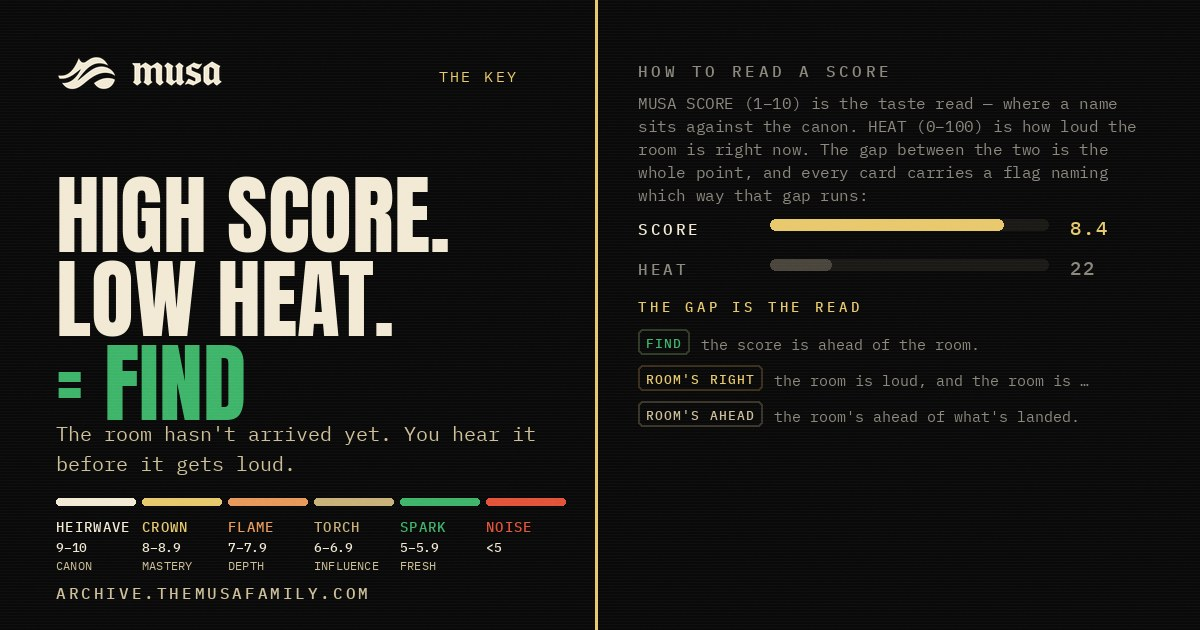
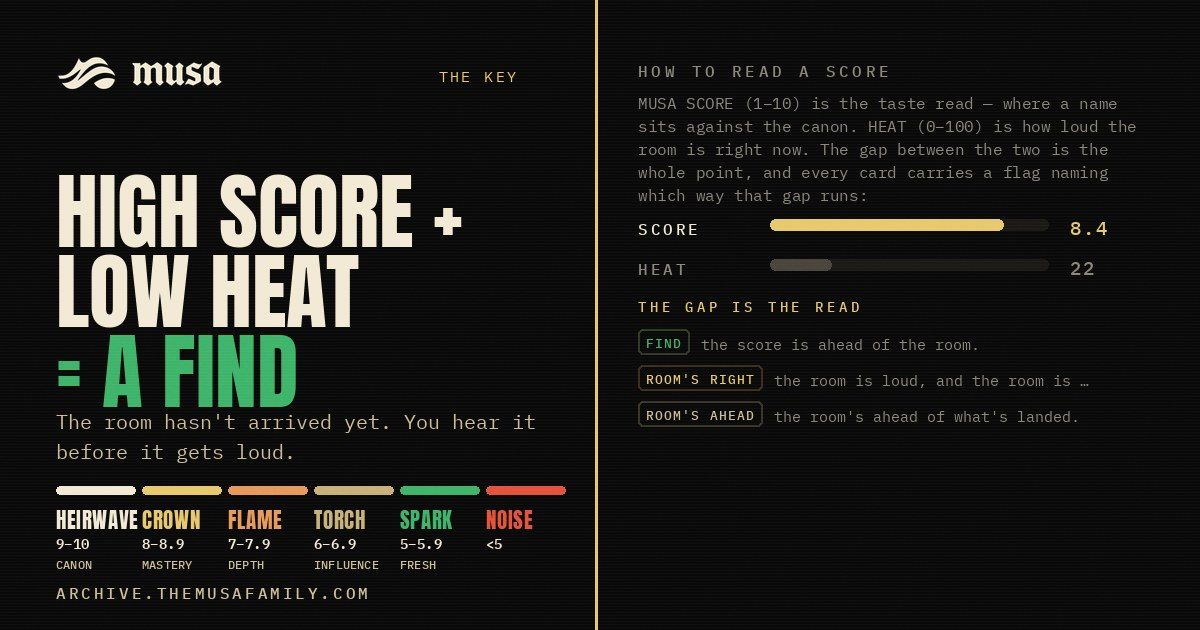
Key card: hero states the equation, tier ladder set in Anton
- Hero now reads HIGH SCORE + / LOW HEAT / = A FIND rather than three
  separate statements, so the swipe lands on a result instead of a claim.
  Payoff line stays in the FIND green.
- Tier names move from IBM Plex Mono 17 to Anton 27. Anton is condensed, so
  it carries far more height in the same column width and survives a feed
  thumbnail. Roughly 3x the ink on the page at the same footprint.
- Ranges to IBM Plex Mono SemiBold 18 in full FG, descriptors to Medium 15
  in SAND. MONOB constant wired up; the semibold cut shipped in build/fonts
  but was never referenced.
- share.py: pinned block prose carries the same equation.

Changed region(s): [[0.0308, 0.2714, 0.4933, 0.9048]]

diff --git a/share/index.html b/share/index.html
@@ -175,7 +175,7 @@ footer b{font-family:var(--mono);font-size:9px;color:#b8b09c;letter-spacing:.2em
   </a>
   <div class="kbody">
     <div class="klab">THE KEY · SLIDE TWO</div>
-    <div class="ktxt">Save this and run it behind any card — it carries the whole key: score, heat, all three flags and the tier ladder. <b>High score, low heat = FIND</b>: the work already holds up, the room hasn't arrived, and you're getting put onto it before it gets loud. That gap is the whole board.</div>
+    <div class="ktxt">Save this and run it behind any card — it carries the whole key: score, heat, all three flags and the tier ladder. <b>High Score + Low Heat = a FIND</b>: the work already holds up, the room hasn't arrived, and you're getting put onto it before it gets loud. That gap is the whole board.</div>
     <div class="kacts">
       <a href="/cards/the-key-sq.jpg" download="musa-the-key-sq.jpg">SAVE 1080×1350</a>
       <a href="/cards/the-key-og.jpg" download="musa-the-key-og.jpg">SAVE 1200×630</a>

diff --git a/build/cards.py b/build/cards.py
@@ -10,6 +10,7 @@ FONTS = os.path.join(HERE, "fonts")
 SERIF = os.path.join(FONTS, "InstrumentSerif-Regular.ttf")
 MONO  = os.path.join(FONTS, "IBMPlexMono-Regular.ttf")
 MONOM = os.path.join(FONTS, "IBMPlexMono-Medium.ttf")
+MONOB = os.path.join(FONTS, "IBMPlexMono-SemiBold.ttf")
 
 BG="#0a0a0a"; FG="#f2ead5"; MUT="#8c887e"; MUT2="#6d6a62"
 LINE="#26241f"; AMBER="#e8c96d"; SAND="#cdbf99"; GREEN="#3fb56b"; RED="#e4533a"
@@ -423,21 +424,25 @@ def _gapdemo(d, x, y, boxw, step=62, labfs=22, valfs=26, barh=16):
     return y + step * 2
 
 
-def _tierladder(d, x, y, w, nfs=17, rfs=16, dfs=15, gap=9, barh=8):
+def _tierladder(d, x, y, w, nfs=27, rfs=18, dfs=15, gap=9, barh=10):
     """The six tiers as a ladder, so the score on the card lands somewhere.
-    Sized to be read at arm's length on a phone, not squinted at."""
+    Names set in Anton rather than mono: condensed, so it carries twice the
+    height in the same column width, and it reads from a feed thumbnail."""
     n = len(KEY_TIERS)
     seg = (w - gap * (n - 1)) / n
-    fn, fr, fd = font(MONOM, nfs), font(MONOM, rfs), font(MONO, dfs)
+    fn, fr, fd = font(ANTON, nfs), font(MONOB, rfs), font(MONOM, dfs)
+    ny = y + barh + 10
+    ry = ny + int(nfs * 0.82) + 13
+    dy = ry + rfs + 8
     for i, (name, rng, desc) in enumerate(KEY_TIERS):
         sx = int(x + i * (seg + gap))
-        d.rounded_rectangle([sx, y, sx + int(seg), y + barh], radius=3,
+        d.rounded_rectangle([sx, y, sx + int(seg), y + barh], radius=4,
                             fill=TIER_COLOR[name])
-        tracked(d, (sx, y + barh + 12), name, fn, TIER_COLOR[name], 0.9)
-        d.text((sx, y + barh + 12 + nfs + 7), rng, font=fr, fill=FG)
+        tracked(d, (sx, ny), name, fn, TIER_COLOR[name], 0.6)
+        d.text((sx, ry), rng, font=fr, fill=FG)
         if desc:
-            d.text((sx, y + barh + 12 + nfs + 7 + rfs + 6), desc, font=fd, fill=SAND)
-    return y + barh + 12 + nfs + 7 + rfs + 6 + dfs
+            d.text((sx, dy), desc, font=fd, fill=SAND)
+    return dy + dfs
 
 
 def keycard(out, W=1080, H=1350):
@@ -455,10 +460,10 @@ def keycard(out, W=1080, H=1350):
     # Hero. Anton, tight leading, the payoff line in green — the same green as
     # the FIND chip further down, so the eye ties the two together unprompted.
     y += 44
-    fh = font(ANTON, 106)
-    for line, col in [("HIGH SCORE.", FG), ("LOW HEAT.", FG), ("= FIND", GREEN)]:
+    fh = font(ANTON, 102)
+    for line, col in [("HIGH SCORE +", FG), ("LOW HEAT", FG), ("= A FIND", GREEN)]:
         d.text((M, y), line, font=fh, fill=col)
-        y += 90
+        y += 86
 
     y += 24
     fb = font(MONO, 23)
@@ -510,10 +515,10 @@ def keycard_og(out, W=1200, H=630):
     _key_masthead(im, d, split - 24, M, M, right="THE KEY", hh=34, wmh=27, fs=15)
 
     y = M + 92
-    fh = font(ANTON, 88)
-    for line, col in [("HIGH SCORE.", FG), ("LOW HEAT.", FG), ("= FIND", GREEN)]:
+    fh = font(ANTON, 84)
+    for line, col in [("HIGH SCORE +", FG), ("LOW HEAT", FG), ("= A FIND", GREEN)]:
         d.text((M, y), line, font=fh, fill=col)
-        y += 84
+        y += 80
 
     fb = font(MONO, 20)
     y += 20
@@ -521,7 +526,7 @@ def keycard_og(out, W=1200, H=630):
                    fb, split - M - 40, 2):
         d.text((M, y), ln, font=fb, fill=SAND); y += 30
 
-    _tierladder(d, M, H - M - 76, split - M - 30, nfs=14, rfs=13, dfs=12, gap=7, barh=7)
+    _tierladder(d, M, H - M - 88, split - M - 30, nfs=21, rfs=14, dfs=12, gap=7, barh=8)
     tracked(d, (M, H - M + 8), "ARCHIVE.THEMUSAFAMILY.COM", font(MONOM, 16), SAND, 3.0)
 
     # Right column: the definitions, the gap, then the three calls.

diff --git a/build/share.py b/build/share.py
@@ -179,7 +179,7 @@ footer b{{font-family:var(--mono);font-size:9px;color:#b8b09c;letter-spacing:.2e
   </a>
   <div class="kbody">
     <div class="klab">THE KEY · SLIDE TWO</div>
-    <div class="ktxt">Save this and run it behind any card — it carries the whole key: score, heat, all three flags and the tier ladder. <b>High score, low heat = FIND</b>: the work already holds up, the room hasn't arrived, and you're getting put onto it before it gets loud. That gap is the whole board.</div>
+    <div class="ktxt">Save this and run it behind any card — it carries the whole key: score, heat, all three flags and the tier ladder. <b>High Score + Low Heat = a FIND</b>: the work already holds up, the room hasn't arrived, and you're getting put onto it before it gets loud. That gap is the whole board.</div>
     <div class="kacts">
       <a href="/cards/the-key-sq.jpg" download="musa-the-key-sq.jpg">SAVE 1080×1350</a>
       <a href="/cards/the-key-og.jpg" download="musa-the-key-og.jpg">SAVE 1200×630</a>
